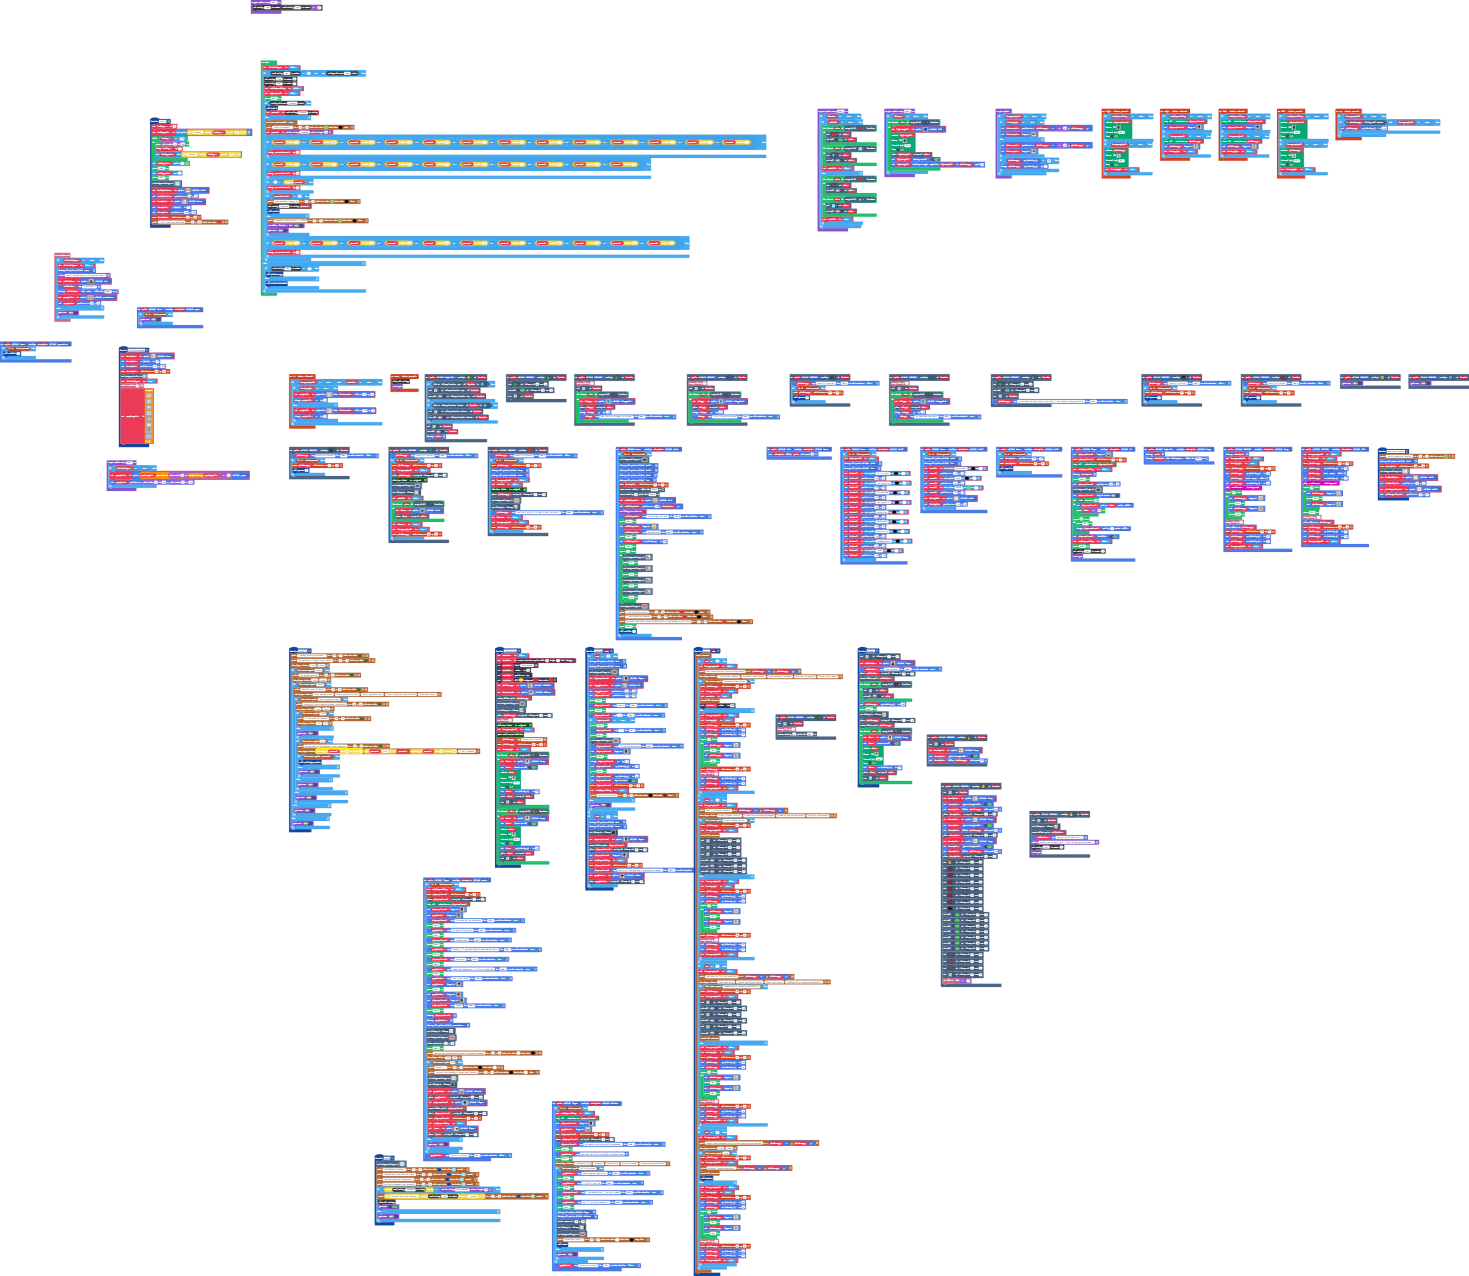
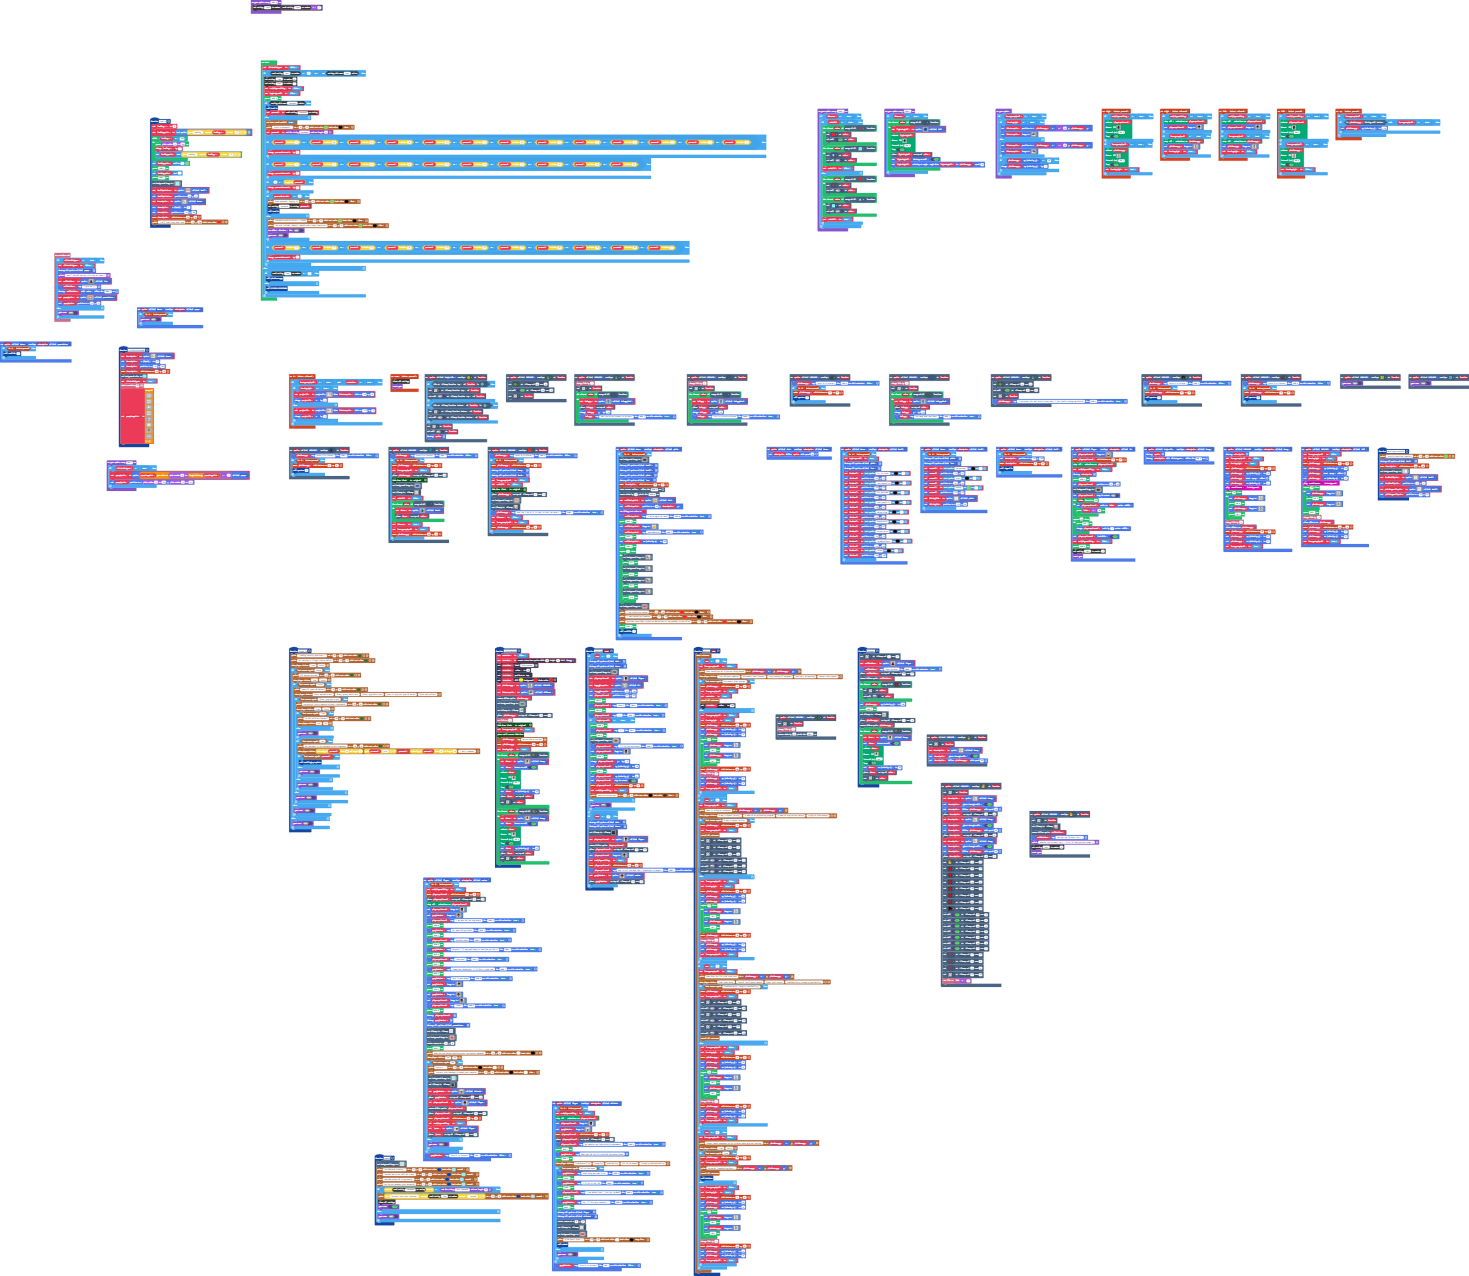
Added login screen hints

Changed region(s): [[0.1532, 0.1528, 0.4901, 0.2445]]

diff --git a/main.ts b/main.ts
@@ -5372,6 +5372,7 @@ if (blockSettings.readNumber("Part") == 1 || !(blockSettings.exists("Part"))) {
             Load_In()
         } else {
             story.printText("Password could be better.....ERROR", 75, 0, 7, 15, story.TextSpeed.Slow)
+            story.printText("You must include, numbers, symbols and a eight characters", 75, 0, 7, 15, story.TextSpeed.Slow)
             game.setGameOverEffect(false, effects.dissolve)
             game.gameOver(false)
         }
